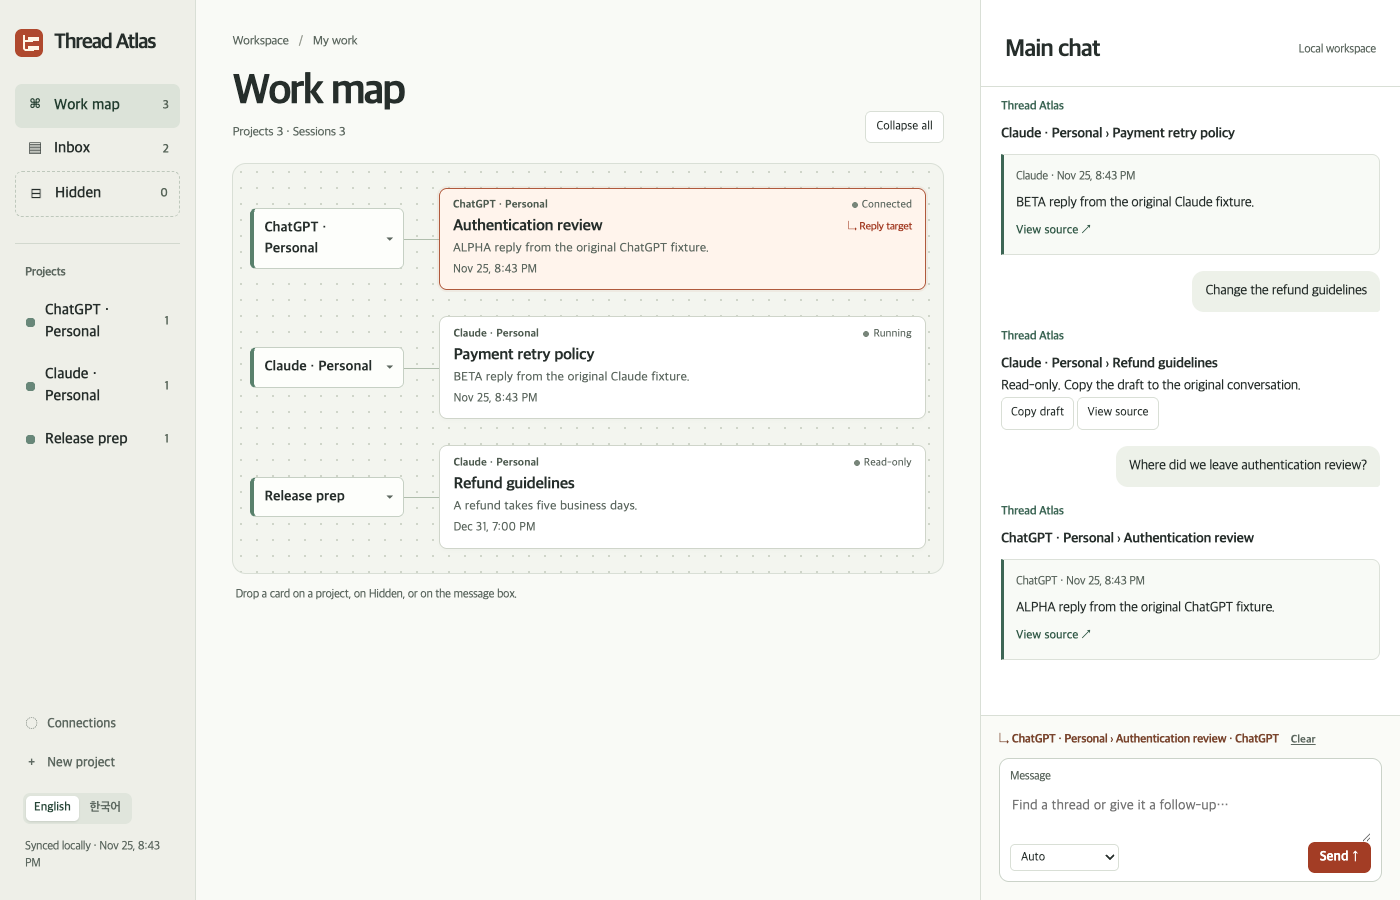
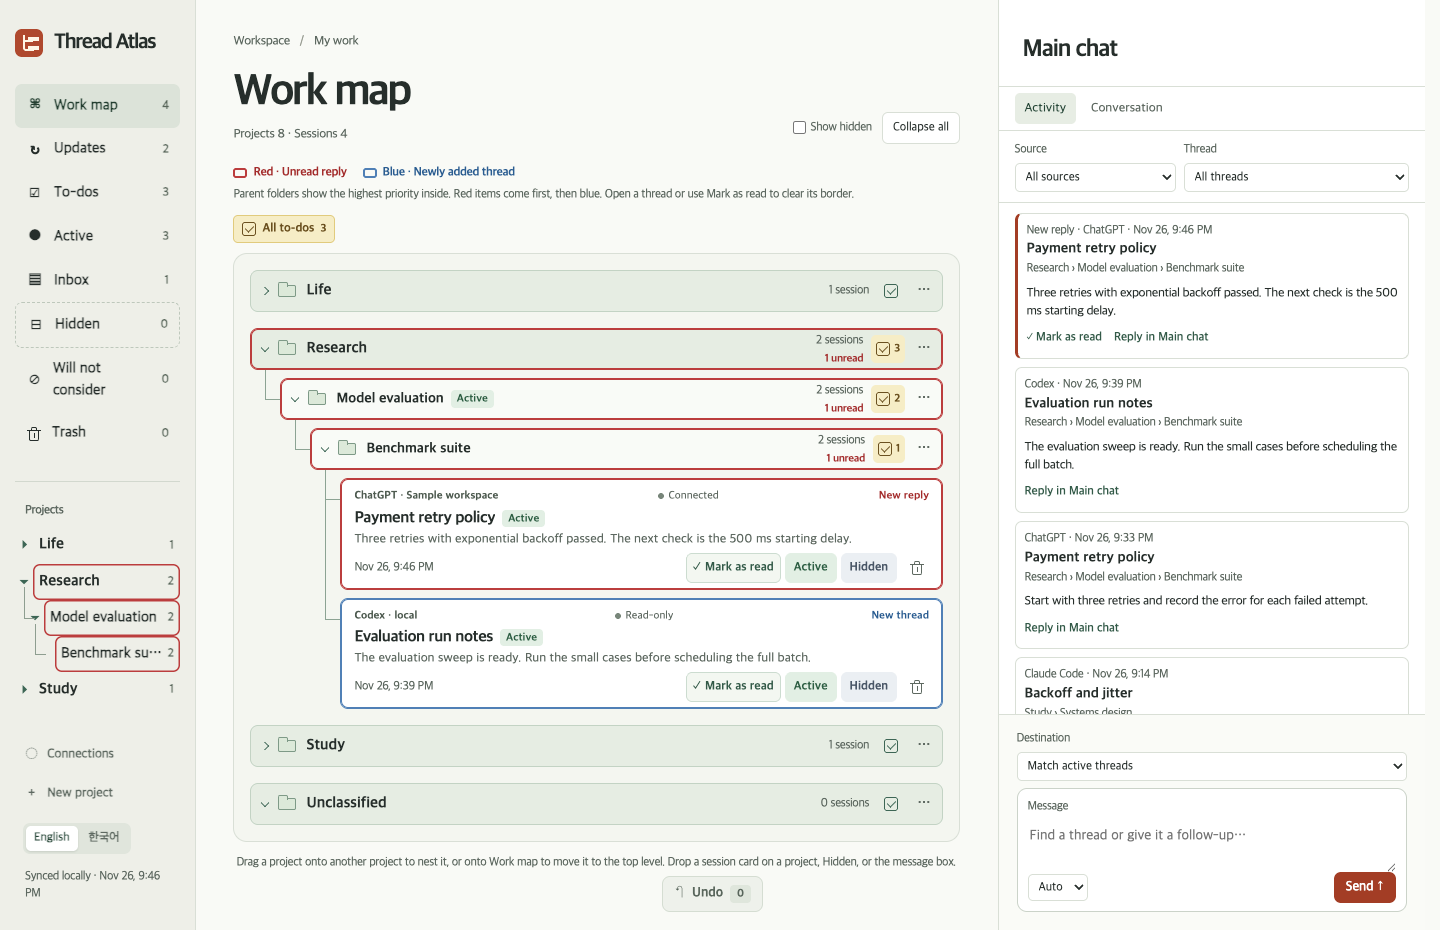
Document workspace workflows with screenshots and examples

diff --git a/README.md b/README.md
@@ -1,64 +1,110 @@
 # Thread Atlas
 
-Find the AI thread you were working in, inspect its latest reply, and send a follow-up to that original conversation. Thread Atlas runs on your computer and groups Codex, Claude Code, ChatGPT, and Claude conversations by project. English is the default. The sidebar also supports Korean.
+Thread Atlas is a local workspace for conversations from Codex, Claude Code, ChatGPT, and Claude. Organize threads into project folders, catch up on replies, and continue a conversation from the dashboard. The interface supports English and Korean.
 
-![Thread Atlas running against synthetic browser fixtures](docs/dashboard.png)
+![Thread Atlas Work map with nested projects, red and blue update markers, and the Main chat activity panel](docs/dashboard.png)
 
-## Run locally
+*The screenshots use sample threads and to-dos.*
 
-On macOS, double-click **Start.command** or run it in a terminal. It starts a loopback server, opens the authenticated dashboard, and uses the locked Python dependencies when uv is installed. Python 3.9+ is required for the fallback installer. The originals of your conversations stay in their source applications.
+## Get started
+
+On macOS, double-click **Start.command** in the checkout or run it from a terminal. The launcher starts the local server and opens the dashboard. It uses the locked dependencies when uv is installed. The fallback installer requires Python 3.9 or later.
 
 ```sh
 ./Start.command
 ```
 
-The [v0.1.0 release](https://github.com/ainta/thread-atlas/releases/tag/v0.1.0) includes a locally built Apple Silicon menu-bar app. It uses the same Python runtime and is ad-hoc signed. For a native build on your own Mac, build and open the bundle. Building requires the Xcode command line tools. The menu can reopen the dashboard or reveal the extension folder. The collector continues running after you close the dashboard.
+On Linux, run the following from the checkout.
+
+```sh
+uv sync --frozen
+uv run python -m atlas
+```
+
+Add `--no-open` to start the collector without opening a browser. Rerun the launcher to reopen the dashboard.
+
+The [v0.1.0 release](https://github.com/ainta/thread-atlas/releases/tag/v0.1.0) includes an ad-hoc-signed Apple Silicon menu-bar app. To build the current checkout as a macOS app, install the Xcode command line tools and run the following. The menu can reopen the dashboard or reveal the extension folder. The collector keeps running when you close the browser tab.
 
 ```sh
 ./macos/build.sh
 open "build/Thread Atlas.app"
 ```
 
-On Linux, run `uv sync --frozen` followed by `uv run python -m atlas`. Use `--no-open` for a headless collector. To open an existing dashboard, run the launcher again. Its private launch URL is stored in the app data directory.
-
 ## Connect your conversations
 
-| Source | Discover and read | Send to the original |
+| Source | Read | Reply |
 | --- | --- | --- |
-| Codex | Watches local transcripts. **Connections → Import Codex history** adds interactive threads from the local App Server. | Uses the signed-in local App Server daemon over its Unix socket. A busy thread must finish its current turn. |
-| Claude Code | Indexes local project transcripts and watches for new replies. | Resumes the exact session ID in its original working directory. A session owned by another terminal is protected from concurrent writes. |
-| ChatGPT web | Import conversations JSON or ZIP exports. The Chrome extension tracks selected open conversations. | Available in a connected tab when **Allow replies to this thread** is enabled and the page exposes a usable composer. |
-| Claude web | Import Claude chat exports or track open conversations through the extension. | Uses the same opt-in tab mechanism, with a source-specific message reader. |
+| Codex | Reads local transcripts. **Connections → Import Codex history** also indexes threads from the signed-in local App Server. | Sends to the original thread through the App Server when the thread is available. |
+| Claude Code | Reads local project transcripts. | Resumes the session in its original working directory. A session open in another terminal is protected from concurrent writes. |
+| ChatGPT and Claude | Import an export or track selected open Chrome tabs. | Sends through a connected tab with **Allow replies to this thread** enabled. |
 
-For Codex, keep the local App Server daemon running. On versions with daemon management, use `codex app-server daemon start` if it is stopped. Claude Code requires a signed-in CLI with `claude agents --json` support. Source visibility depends on the local profile and retained transcripts.
+Keep the local Codex App Server daemon running. On versions with daemon management, use `codex app-server daemon start` if it is stopped. Claude Code replies require a signed-in CLI with `claude agents --json` support.
 
-**For web history**, open **Connections**, pick a provider and account label, and select an exported JSON or ZIP. Re-importing a known message does not create a second copy. ChatGPT imports use the current conversation branch when supplied in the export.
+**Import a snapshot.** In **Connections**, choose a provider and account label, then select a JSON or ZIP export. Reuse the same label on later imports so Thread Atlas can match existing conversations. With a new ChatGPT export ZIP in Downloads, click **Refresh ChatGPT** to import additions and see the count of new chats and messages.
 
-**For live web tabs**, open `chrome://extensions`, enable Developer mode, click **Load unpacked**, and select this repository’s `extension` folder. Reload an existing source tab after installing. In the dashboard’s **Connections**, copy the pairing key. Open the extension on a ChatGPT or Claude conversation, paste the key, and use the same label as your imports. **Track open chats** pairs currently open conversations for reading. To send, enable replies on the individual tab. A full page reload, a changed conversation URL, or a disconnected tab can require reconnecting it. An export is a snapshot. Closed web chats do not receive live monitoring through this extension.
+**Track a live tab.** In Chrome, open `chrome://extensions`, enable Developer mode, and use **Load unpacked** on this checkout's `extension` directory. Reload the source tab once after installation. Copy the pairing key from **Connections**, paste it into the extension, and enter the same account label you use for imports. Click **Track open chats**. Enable **Allow replies to this thread** on each tab where you want to send messages. A navigation or disconnect can require reconnecting the tab.
 
-## Use the workspace
+## Set up the Work map
 
-- Create a top-level project with **New project**. The **Work map** shows projects as expandable folders with sessions and subprojects underneath. Use a project's **⋯** menu to add a subproject or move the entire branch.
-- Newly discovered or imported sessions go into **Unclassified**. Move them to any project from the Work map or session details.
-- Drag a project name in the sidebar or work map onto another project to move its whole branch. Drop it on **Work map** in the sidebar to return it to the top level.
-- Use **Move up** or **Move down** in a project's **⋯** menu to reorder folders at the same level. Thread Atlas saves the order for the sidebar and Work map.
-- Open a session to set its **Workspace status**. **Default** and **Active** appear in the Work map, and the **Active** view focuses on sessions you marked. **Hidden** stays in its project and appears with **Show hidden**. **Will not consider** removes it from the tree, inbox, and routing. Restore puts it back in its previous project.
-- Set a **Folder status** from its **⋯** menu. Active folders and their visible contents appear in **Active**. Hidden folders are revealed in place with **Show hidden**. Branches marked **Will not consider** can be restored with each session's own status.
-- Drag a card into a project, onto **Hidden**, or onto the composer to pin a reply target. Use card details for equivalent move and hide controls.
-- Ask **“Where did we leave the payment retry policy?”** to retrieve a source message. Type **“Then run the tests”** to continue it. The destination appears before you send. Ambiguous requests offer candidates. **Find** and **Send to thread** let you explicitly select an intent.
-- **Inbox** shows latest replies. **Reply here** pins the thread, while simply opening a source shows its history. New replies do not redirect a draft.
-- Enable **Local notifications** under Connections to receive macOS notifications while the collector runs. Allow **Thread Atlas Alerts** when macOS asks. Clicking a banner opens that specific reply in the local inbox. The release bundles the notification helper. Running from source on macOS builds it once using the Xcode command line tools. Optional Telegram notifications use the environment variables `ATLAS_TELEGRAM_TOKEN` and `ATLAS_TELEGRAM_CHAT` supplied at launch. Only the thread title is sent. Delivery to Telegram needs a configured bot and recipient.
-- Delivery receipts distinguish queued, sending, delivered, answered, failed, and uncertain. After an uncertain send, inspect the original thread before submitting a new draft.
+The first-run setup offers **Research**, **Life**, and **Study**. You can edit the starter folders, add subfolders, or skip setup. **Unclassified** collects threads without a clear match. New ChatGPT threads can be filed into an existing folder when their topic matches.
 
-## Data and configuration
+For example, you might keep a benchmark thread three levels deep.
 
-The server binds to `127.0.0.1:43821`. Its private SQLite database, pairing credential, and launch URL live in `~/Library/Application Support/Thread Atlas` on macOS and under `$XDG_DATA_HOME/Thread Atlas` on Linux. Use `--port`, `--data`, `--codex-dir`, or `--claude-dir` to override the defaults. The map layout and read positions persist in SQLite. Draft text, language, reply target, and the main-chat search history persist in the dashboard's browser storage. Use separate browser profiles and account labels to distinguish identities.
+```text
+Research
+└── Model evaluation
+    └── Benchmark suite
+        └── Payment retry policy
+```
 
-The web extension reads visible message elements, communicates with the paired loopback service, and never needs account cookies or API keys. DOM controls can change with provider updates. The extension refuses to overwrite a nonempty composer or treat a button click alone as proof of delivery.
+Drag a thread onto a folder to move it. Drag a folder onto another folder to move the entire branch, or drop it on **Work map** in the sidebar to move it to the top level. A folder's **⋯** menu also lets you add a subproject or move the folder up or down among its siblings.
+
+| Status | Where it appears |
+| --- | --- |
+| **Default** | Work map |
+| **Active** | Work map, Active, and automatic matching in Main chat |
+| **Hidden** | Hidden, or its original folder when **Show hidden** is on |
+| **Will not consider** | Its own sidebar view, with a **Restore** action |
+
+Set a thread's status from its card or details. Use the folder's **⋯** menu to set status for a branch. Visible threads in an active folder are eligible for automatic matching.
+
+Open a thread and click **Rename** to give it a workspace title that survives sync. **Use original title** switches back to the source title. The trash-can button moves a thread to **Trash**, where you can restore it. **Undo** reverses the last 10 workspace edits one at a time, including renames, folder moves, and status changes.
+
+## Catch up and reply
+
+1. Open **Updates** to see only threads that need a look. Red marks an unread reply, and blue marks a newly added thread. Parent folders inherit the highest-priority marker. Inside a folder, red items come first, then blue.
+2. Click a thread to see its history, or click **✓ Mark as read** to clear its marker from the card. The checkmark also appears on unread replies in **Inbox** and **Main chat → Activity**.
+3. Click **Reply here** to send from the thread window. **Open original** follows a linked web conversation or opens a local Codex thread in the desktop app. For a read-only thread, use **Copy draft**.
+
+In the right panel, use **Activity** to filter replies by source or thread. Choose a **Destination** to follow up without opening the thread. **Conversation** shows what you sent and any replies that came back.
+
+| In Main chat | Example |
+| --- | --- |
+| **Find** with **Match active threads** | “Where did we leave the payment retry policy?” |
+| **Send to thread** with **Match active threads** | “Summarize the payment retry tests.” |
+| **Send to thread** with a specific **Destination** | Select **Payment retry policy** and type “Try a backoff of 500 ms.” |
+
+**Auto** chooses between finding and sending. Thread Atlas matches titles, project names, and recent replies, then previews the destination. It asks you to choose when the match is unclear. A specific destination can be any visible thread.
+
+![Main chat showing a found reply and the destination preview for a follow-up](docs/main-chat.png)
+
+## Keep project to-dos
+
+Click the yellow checklist icon next to a folder to open its memo. For example, the **Research** memo shows its own checklist and the tasks under **Model evaluation → Benchmark suite**, indented by folder. **All to-dos** opens a memo for the entire Work map.
+
+![Yellow Research checklist with indented tasks from Model evaluation and Benchmark suite](docs/project-todos.png)
+
+Check tasks off in the memo, or click **Open in To-dos** to add and organize them in the full view. Drag a task's **⠿** handle above or below another task to reorder it, or drop it on a different folder to move it. Click the handle for a project and position picker. **Undo** also works for to-do changes.
+
+## Notifications and local data
+
+Turn on **Local notifications** in **Connections** and allow **Thread Atlas Alerts** when macOS asks. Clicking a banner opens the exact reply. Optional Telegram notifications use `ATLAS_TELEGRAM_TOKEN` and `ATLAS_TELEGRAM_CHAT` and send the thread title. Delivery receipts show whether a follow-up was queued, sent, answered, failed, or could not be confirmed.
+
+The dashboard binds to `127.0.0.1:43821`. On macOS, the SQLite database, launch URL, and pairing credential are stored in `~/Library/Application Support/Thread Atlas`. On Linux, the default is `~/.local/share/Thread Atlas`, or `$XDG_DATA_HOME/Thread Atlas` when set. The database holds thread history, project layout, read markers, titles, and to-dos. The dashboard browser profile holds drafts, language, the reply target, and Main chat history. Use `--port`, `--data`, `--codex-dir`, or `--claude-dir` to override defaults.
+
+The Chrome extension reads visible conversation content in the tabs you connect. It talks to the loopback server with the pairing key. It protects an existing draft in the source composer and waits for evidence of delivery.
 
 ## Verification
-
-[Verification report](docs/VERIFICATION.md) · [Original-thread receipts](docs/live-receipts.json) · [English design](docs/DESIGN.md) · [한국어 설계](docs/DESIGN.ko.md)
 
 ```sh
 uv sync --frozen
@@ -69,8 +115,10 @@ uv run playwright install chromium
 uv run python scripts/browser_test.py
 ```
 
-The browser test launches an isolated Chromium profile, loads the actual extension, and uses local fixtures in place of the two provider websites. An additional opt-in test uses your authenticated models, creates four disposable conversations, and consumes model usage.
+The browser suite runs in an isolated Chromium profile with fixture pages for the web providers. The opt-in live suite uses authenticated providers, creates four disposable conversations, and consumes model usage.
 
 ```sh
 uv run python scripts/live_test.py --live
 ```
+
+[English design](docs/DESIGN.md) · [한국어 설계](docs/DESIGN.ko.md) · [Verification notes](docs/VERIFICATION.md) · [Original-thread receipts](docs/live-receipts.json)
